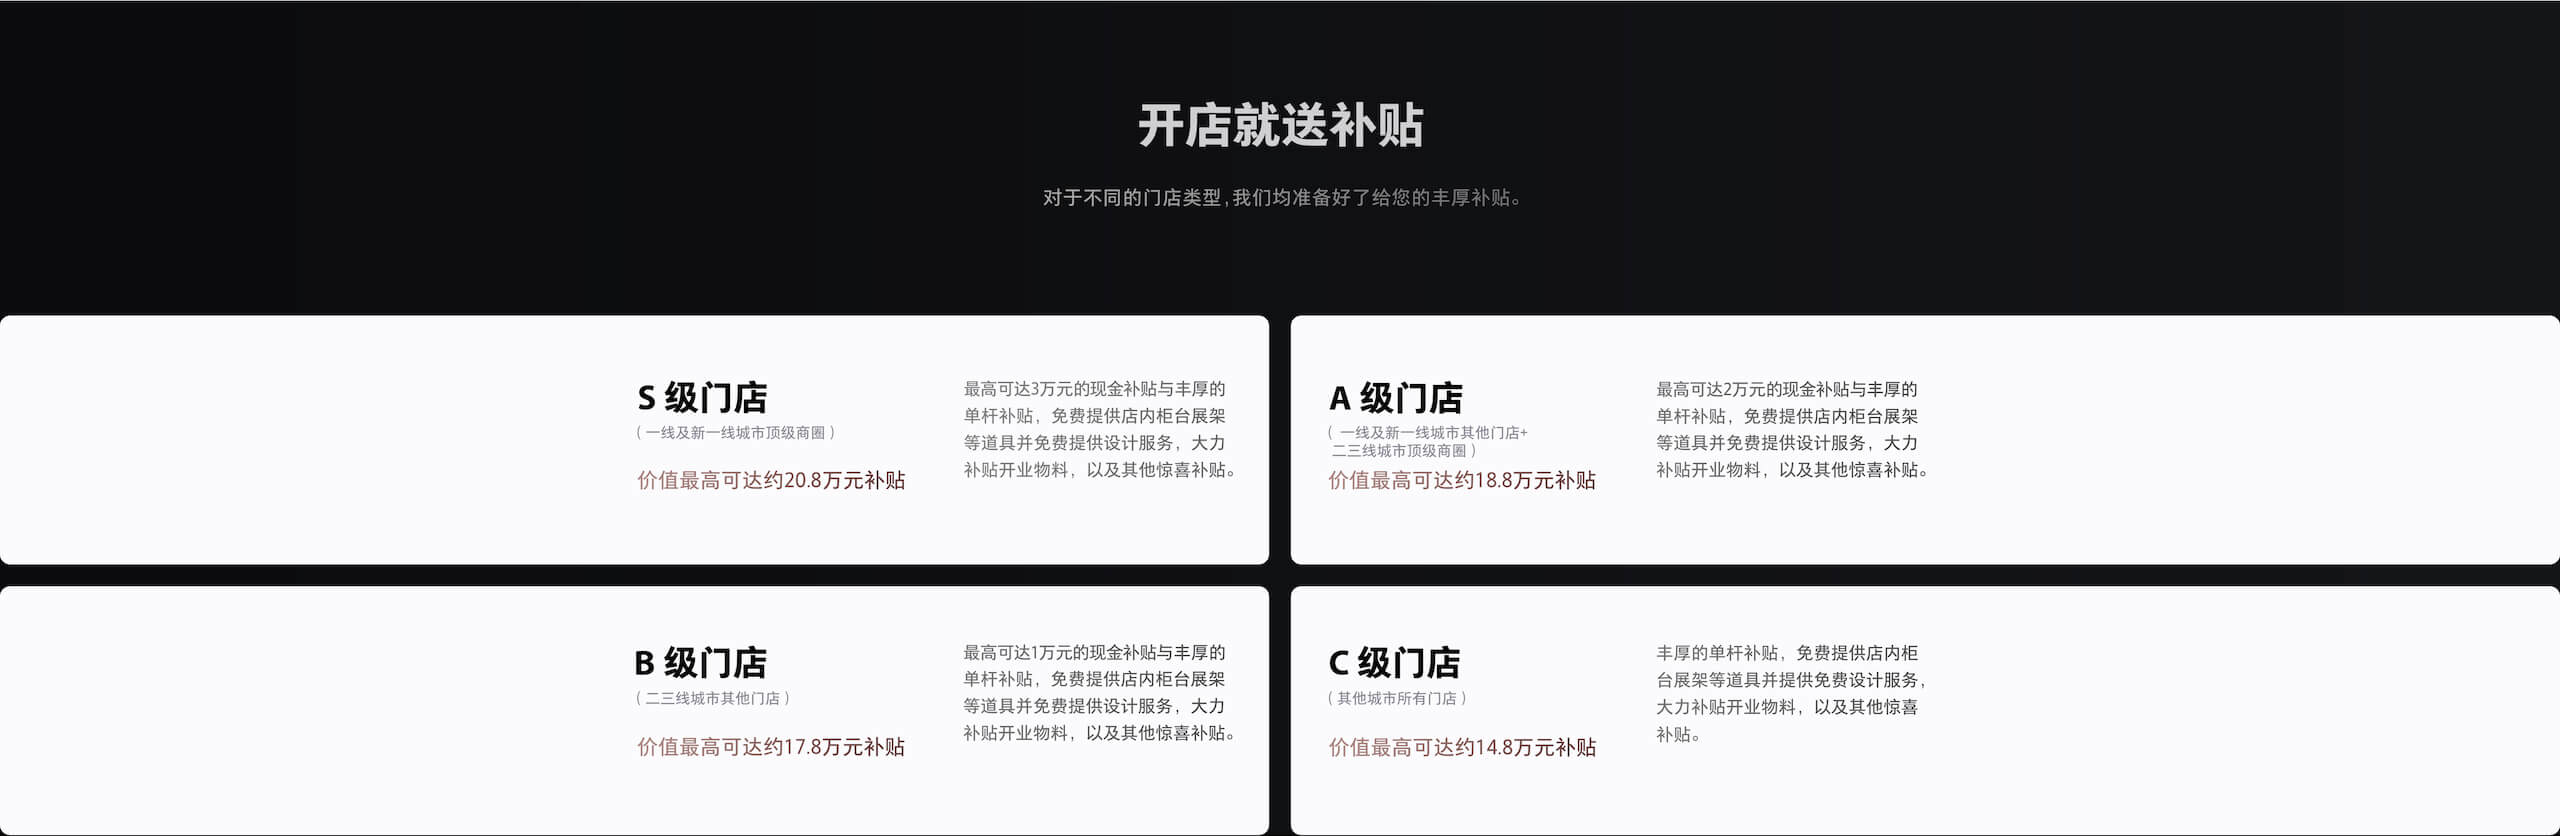
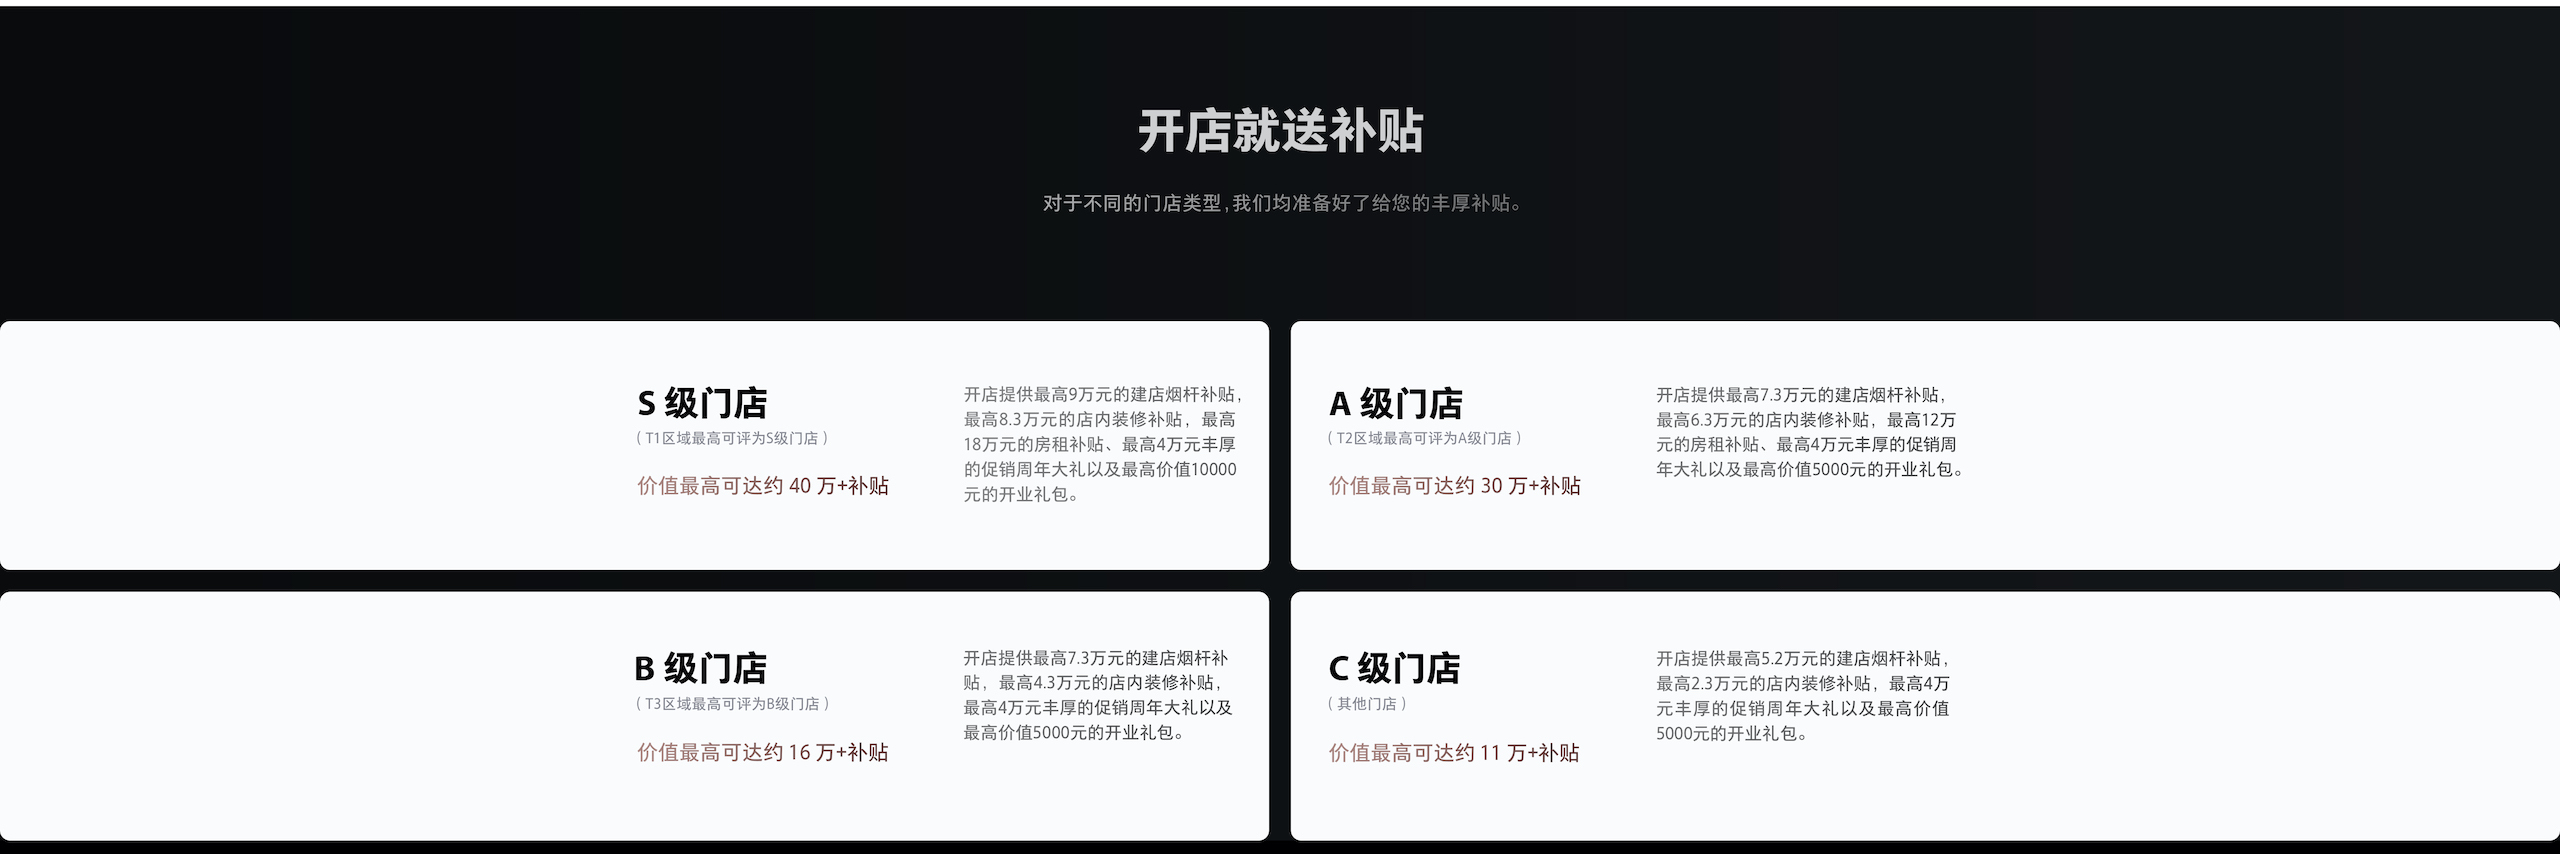
feat: entityshop image updated.

diff --git a/pages/entityshop.vue b/pages/entityshop.vue
@@ -36,6 +36,7 @@
       </li>
       <li class="entityshop-img-3"></li>
       <li class="entityshop-img-4"></li>
+      <li class="entityshop-img-4-02"></li>
       <li class="entityshop-img-5"></li>
       <li class="entityshop-img-6"></li>
       <li class="entityshop-img-7"></li>
@@ -64,7 +65,7 @@ export default {
 
 .entityshop-img-1 {
   width: 100%;
-  height: 778px;
+  height: 782px;
   margin-top: -1px;
   background-repeat: no-repeat;
   background-position: center;
@@ -74,7 +75,7 @@ export default {
 }
 .entityshop-img-2 {
   width: 100%;
-  height: 893px;
+  height: 879px;
   background-repeat: no-repeat;
   background-position: center;
   background-size: cover;
@@ -83,7 +84,7 @@ export default {
 }
 .entityshop-img-3 {
   width: 100%;
-  height: 836px;
+  height: 854px;
   background-repeat: no-repeat;
   background-position: center;
   background-size: cover;
@@ -92,16 +93,25 @@ export default {
 }
 .entityshop-img-4 {
   width: 100%;
-  height: 2313px;
+  height: 954px;
   background-repeat: no-repeat;
   background-position: center;
   background-size: cover;
   background-image: url(~assets/images/entityshop/entityshop-img-4.jpg);
   background-image: -webkit-image-set(url(~assets/images/entityshop/entityshop-img-4.jpg) 1x,url(~assets/images/entityshop/entityshop-img-4@2x.jpg) 2x);
 }
+.entityshop-img-4-02 {
+  width: 100%;
+  height: 1403px;
+  background-repeat: no-repeat;
+  background-position: center;
+  background-size: cover;
+  background-image: url(~assets/images/entityshop/entityshop-img-4-02.jpg);
+  background-image: -webkit-image-set(url(~assets/images/entityshop/entityshop-img-4-02.jpg) 1x,url(~assets/images/entityshop/entityshop-img-4-02@2x.jpg) 2x);
+}
 .entityshop-img-5 {
   width: 100%;
-  height: 677px;
+  height: 724px;
   background-repeat: no-repeat;
   background-position: center;
   background-size: cover;
@@ -110,7 +120,7 @@ export default {
 }
 .entityshop-img-6 {
   width: 100%;
-  height: 854px;
+  height: 872px;
   background-repeat: no-repeat;
   background-position: center;
   background-size: cover;
@@ -119,7 +129,7 @@ export default {
 }
 .entityshop-img-7 {
   width: 100%;
-  height: 734px;
+  height: 707px;
   background-repeat: no-repeat;
   background-position: center;
   background-size: cover;
@@ -128,7 +138,7 @@ export default {
 }
 .entityshop-img-8 {
   width: 100%;
-  height: 634px;
+  height: 640px;
   background-repeat: no-repeat;
   background-position: center;
   background-size: cover;

diff --git a/components/footer.vue b/components/footer.vue
@@ -10,7 +10,7 @@
 				</li>
 			</ul>
 			<ul class="copyright">
-				<li>Copyright © 2019, Shenzhen vvild Technology Co., Ltd. All Rights Reserved.</li>
+				<li>Copyright © 2021, Shenzhen vvild Technology Co., Ltd. All Rights Reserved.</li>
 				<li>
 					<a href="http://www.miibeian.gov.cn/" target="_blank">京 ICP 备 19018410 号 - 1	</a>
 				</li>
